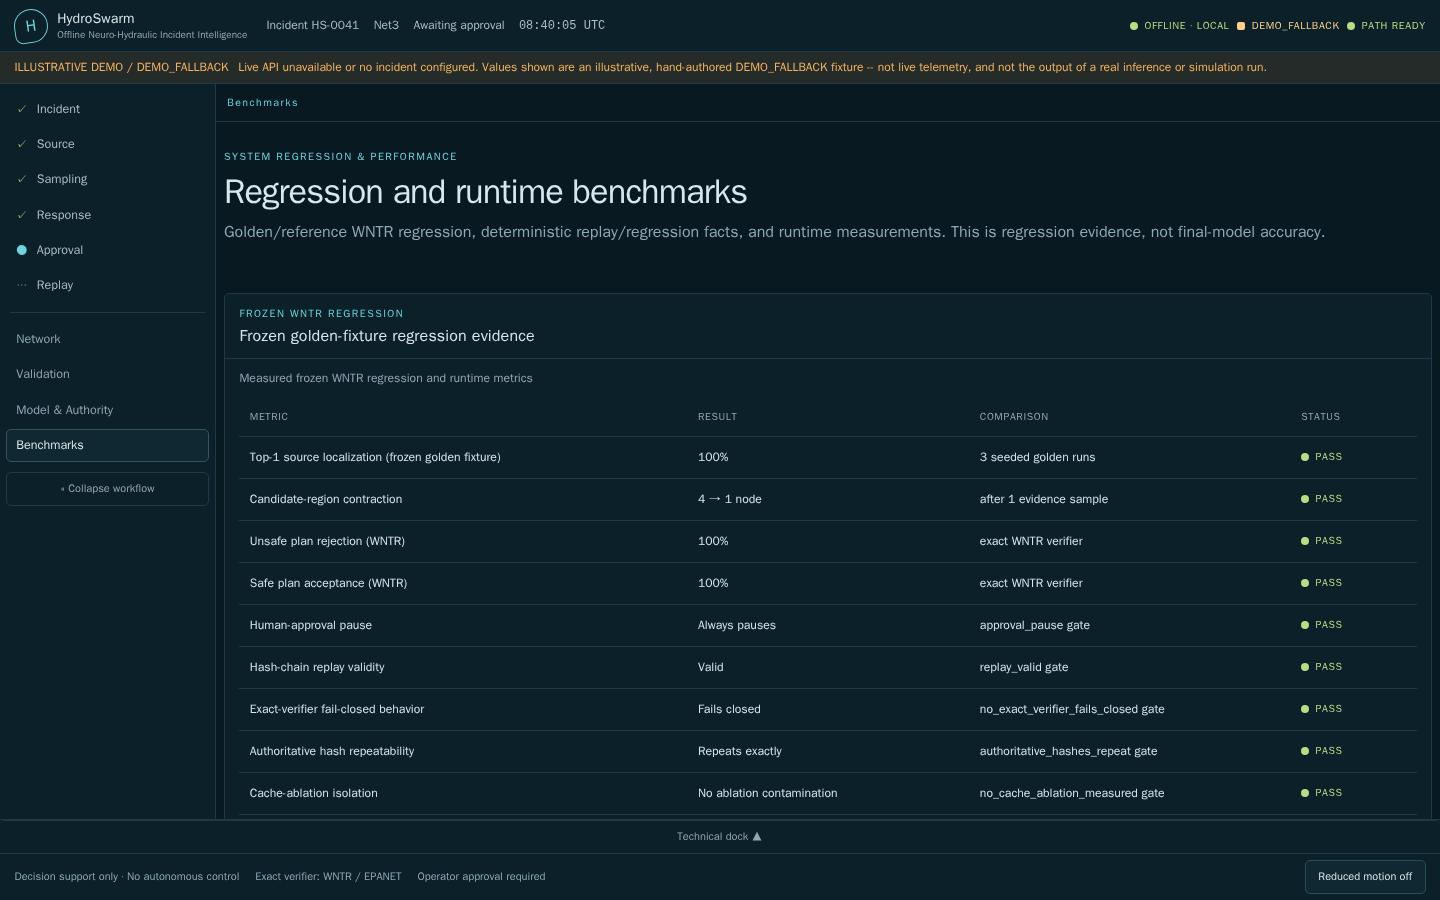
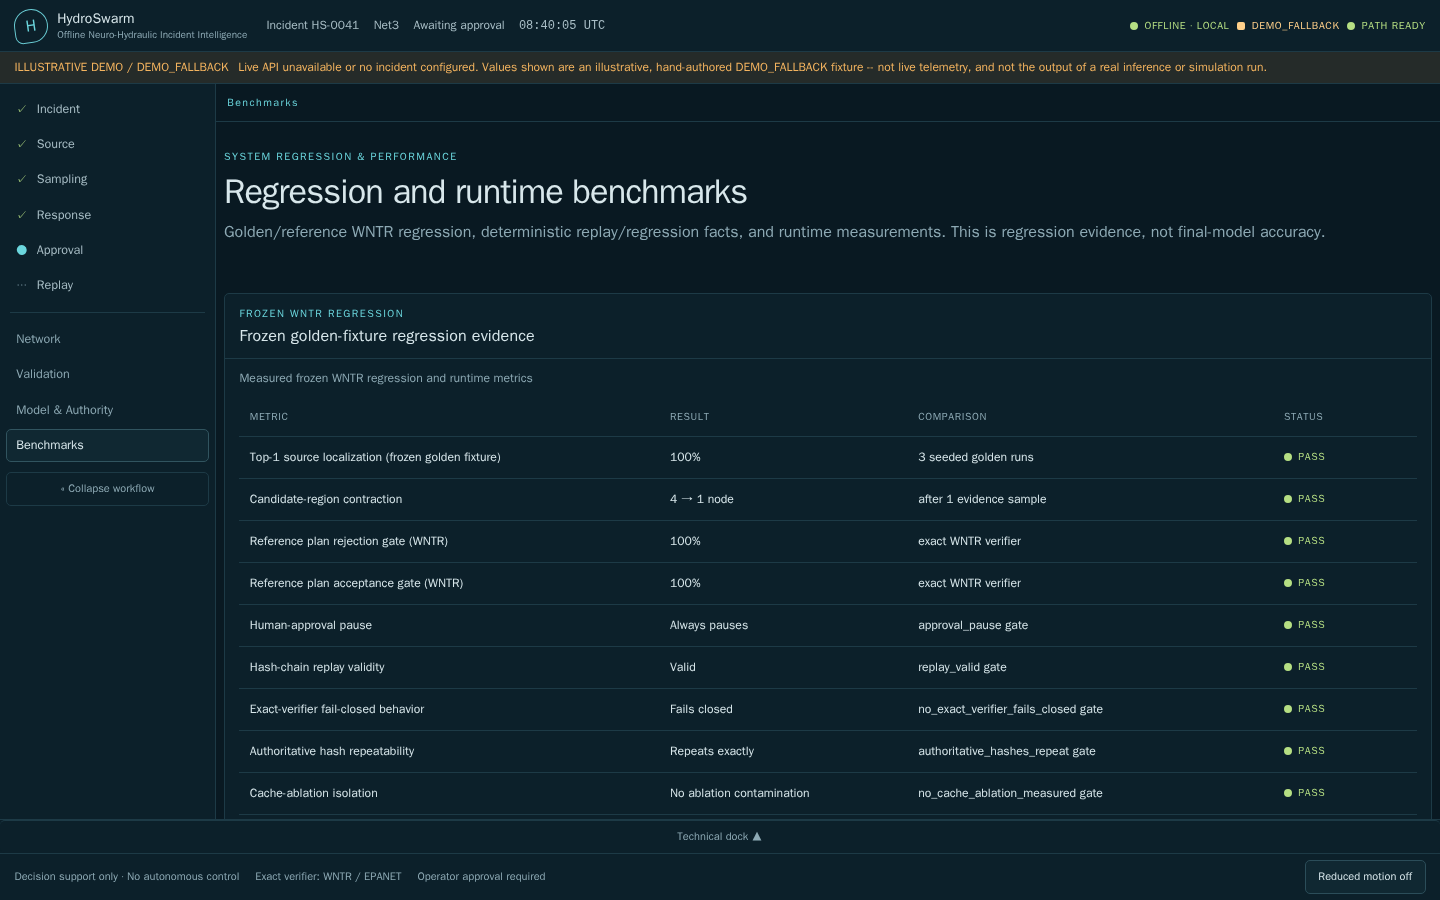
fix(ui): finalize source-mode and benchmark truthfulness
Add CLASSICAL_SAFE to the source-ranking label hierarchy (REFERENCE /
CLASSICAL_SAFE / fused) so a classical-only incident is never labeled
as fused, and rename the fused label from CALIBRATED FUSION to FUSED
SOURCE BELIEF since a fused belief can exist even when calibration
isn't authoritative. Centralized in sourceLabel.ts, used by both
SourceWorkspace and Overview.

Remove the two historical 4,040,645-param model-runtime rows from the
Benchmarks artifact (frozen V5 has 4,182,612 params), drop
performance.json from its provenance list, and narrow the WNTR gate
labels to "Reference plan rejection/acceptance gate (WNTR)".

Regenerate docs/screenshots/benchmarks.png and the two directly
affected Playwright visual baselines (benchmarks-1440x900, source
-1920x1080) for this (ARM64) architecture; the x64 baselines need a
regen on an x86_64 runner.

diff --git a/frontend/tests/FinalCorrectivePass.test.tsx b/frontend/tests/FinalCorrectivePass.test.tsx
@@ -11,6 +11,7 @@
  */
 import { render, screen } from '@testing-library/react';
 import { QueryClient, QueryClientProvider } from '@tanstack/react-query';
+import regressionEvidenceArtifact from '../public/system-regression-evidence.json';
 import { FirstLaunchGateway } from '../src/shell/FirstLaunchGateway';
 import { SourceWorkspace } from '../src/workspaces/SourceWorkspace';
 import { AuthorityWorkspace } from '../src/workspaces/AuthorityWorkspace';
@@ -31,7 +32,7 @@ function renderWithQuery(node: React.ReactElement) {
 describe('A. Source attribution', () => {
   test('LIVE/DEMO SourceWorkspace labels the final ranked candidates as fused, not raw Sentinel', async () => {
     renderWithQuery(<SourceWorkspace incident={demoIncident} />);
-    expect(await screen.findByText('CALIBRATED FUSION')).toBeVisible();
+    expect(await screen.findByText('FUSED SOURCE BELIEF')).toBeVisible();
     expect(screen.queryByText('HYDROCORE-v5 SENTINEL')).toBeNull();
     expect(
       screen.getByText('Classical hydraulic/signature evidence + HydroCore-v5 Sentinel evidence.'),
@@ -42,11 +43,52 @@ describe('A. Source attribution', () => {
     const referenceIncident: IncidentView = { ...demoIncident, mode: 'REFERENCE' };
     renderWithQuery(<SourceWorkspace incident={referenceIncident} />);
     expect(await screen.findByText('DETERMINISTIC REFERENCE LOCALIZATION')).toBeVisible();
-    expect(screen.queryByText('CALIBRATED FUSION')).toBeNull();
+    expect(screen.queryByText('FUSED SOURCE BELIEF')).toBeNull();
     // No fusion-composition sentence in REFERENCE mode -- it does not fuse anything live.
     expect(
       screen.queryByText(
         'Classical hydraulic/signature evidence + HydroCore-v5 Sentinel evidence.',
+      ),
+    ).toBeNull();
+  });
+
+  test('CLASSICAL_SAFE SourceWorkspace says deterministic classical localization, not fused', async () => {
+    const classicalSafeIncident: IncidentView = {
+      ...demoIncident,
+      mode: 'LIVE',
+      runtimeAnalysisMode: 'CLASSICAL_SAFE',
+    };
+    renderWithQuery(<SourceWorkspace incident={classicalSafeIncident} />);
+    expect(await screen.findByText('DETERMINISTIC CLASSICAL LOCALIZATION')).toBeVisible();
+    expect(screen.queryByText('FUSED SOURCE BELIEF')).toBeNull();
+    expect(screen.queryByText('CALIBRATED FUSION')).toBeNull();
+    // No fabricated learned contribution -- Sentinel evidence did not run.
+    expect(
+      screen.queryByText(
+        'Classical hydraulic/signature evidence + HydroCore-v5 Sentinel evidence.',
+      ),
+    ).toBeNull();
+    expect(
+      screen.getByText(
+        /Learned localization was unavailable for this incident; deterministic classical/,
+      ),
+    ).toBeVisible();
+  });
+
+  test('normal hybrid/fused SourceWorkspace path shows the classical + Sentinel composition sentence', async () => {
+    const hybridIncident: IncidentView = {
+      ...demoIncident,
+      mode: 'LIVE',
+      runtimeAnalysisMode: 'FULL_HYBRID',
+    };
+    renderWithQuery(<SourceWorkspace incident={hybridIncident} />);
+    expect(await screen.findByText('FUSED SOURCE BELIEF')).toBeVisible();
+    expect(
+      screen.getByText('Classical hydraulic/signature evidence + HydroCore-v5 Sentinel evidence.'),
+    ).toBeVisible();
+    expect(
+      screen.queryByText(
+        /Learned localization was unavailable for this incident; deterministic classical/,
       ),
     ).toBeNull();
   });
@@ -61,6 +103,17 @@ describe('A. Source attribution', () => {
     const referenceIncident: IncidentView = { ...demoIncident, mode: 'REFERENCE' };
     render(<Overview incident={referenceIncident} />);
     expect(await screen.findByText('DETERMINISTIC REFERENCE LOCALIZATION')).toBeVisible();
+    expect(screen.queryByText('FUSED SOURCE BELIEF')).toBeNull();
+  });
+
+  test('Overview Source card for CLASSICAL_SAFE incidents says deterministic classical localization, not fused', async () => {
+    const classicalSafeIncident: IncidentView = {
+      ...demoIncident,
+      mode: 'LIVE',
+      runtimeAnalysisMode: 'CLASSICAL_SAFE',
+    };
+    render(<Overview incident={classicalSafeIncident} />);
+    expect(await screen.findByText('DETERMINISTIC CLASSICAL LOCALIZATION')).toBeVisible();
     expect(screen.queryByText('FUSED SOURCE BELIEF')).toBeNull();
   });
 
@@ -108,6 +161,55 @@ describe('B. Benchmarks', () => {
     render(<BenchmarkPage />);
     expect(await screen.findByText('Regression evidence unavailable.')).toBeVisible();
     expect(screen.queryByRole('table')).toBeNull();
+  });
+});
+
+// ---------------------------------------------------------------------------
+// B2. Benchmark artifact truthfulness (real committed artifact)
+// ---------------------------------------------------------------------------
+describe('B2. Benchmark artifact truthfulness', () => {
+  const realDoc = regressionEvidenceArtifact;
+
+  test('does not include historical/pre-final model-runtime rows', () => {
+    const metricNames = realDoc.metrics.map((metric: { metric: string }) => metric.metric);
+    expect(metricNames).not.toContain('Small-variant model runtime (reference graph, 128 nodes)');
+    expect(metricNames).not.toContain('Small-variant model runtime (stress graph, 1000 nodes)');
+    const values = realDoc.metrics.map((metric: { value: string }) => metric.value);
+    expect(values).not.toContain('31.0 ms median / 32.3 ms p95');
+    expect(values).not.toContain('104.3 ms median / 135.0 ms p95');
+  });
+
+  test('provenance no longer lists reports/results/performance.json', () => {
+    const paths = realDoc.generatedFrom.map((entry: { path: string }) => entry.path);
+    expect(paths).not.toContain('reports/results/performance.json');
+  });
+
+  test('WNTR gate labels use narrower reference/gate wording, not broad safe/unsafe language', () => {
+    const metricNames = realDoc.metrics.map((metric: { metric: string }) => metric.metric);
+    expect(metricNames).not.toContain('Unsafe plan rejection (WNTR)');
+    expect(metricNames).not.toContain('Safe plan acceptance (WNTR)');
+    expect(metricNames).toContain('Reference plan rejection gate (WNTR)');
+    expect(metricNames).toContain('Reference plan acceptance gate (WNTR)');
+  });
+
+  test('deterministic regression evidence remains present', () => {
+    const metricNames = realDoc.metrics.map((metric: { metric: string }) => metric.metric);
+    expect(metricNames).toContain('Top-1 source localization (frozen golden fixture)');
+    expect(metricNames).toContain('Hash-chain replay validity');
+  });
+
+  test('BenchmarkPage rendering the real artifact shows no stale model-runtime rows and shows the new gate labels', async () => {
+    vi.stubGlobal('fetch', vi.fn().mockResolvedValue({ ok: true, json: async () => realDoc }));
+    render(<BenchmarkPage />);
+    expect(await screen.findByText('Reference plan rejection gate (WNTR)')).toBeVisible();
+    expect(screen.getByText('Reference plan acceptance gate (WNTR)')).toBeVisible();
+    expect(
+      screen.queryByText('Small-variant model runtime (reference graph, 128 nodes)'),
+    ).toBeNull();
+    expect(screen.queryByText('Small-variant model runtime (stress graph, 1000 nodes)')).toBeNull();
+    expect(screen.queryByText('31.0 ms median / 32.3 ms p95')).toBeNull();
+    expect(screen.queryByText('104.3 ms median / 135.0 ms p95')).toBeNull();
+    expect(screen.queryByText('reports/results/performance.json')).toBeNull();
   });
 });
 

diff --git a/frontend/src/workspaces/SourceWorkspace.tsx b/frontend/src/workspaces/SourceWorkspace.tsx
@@ -9,6 +9,7 @@ import { AuthorityBadge } from '../components/status/AuthorityBadge';
 import { ApplicabilityBadge } from '../components/status/ApplicabilityBadge';
 import { EmptyState } from '../components/common/EmptyState';
 import { KeyValueGrid } from '../components/common/KeyValueGrid';
+import { sourceRankingLabel, showsFusedComposition } from '../sourceLabel';
 
 const OperationalMap = lazy(() =>
   import('../components/OperationalMap').then((module) => ({ default: module.OperationalMap })),
@@ -63,14 +64,10 @@ export function SourceWorkspace({ incident }: { incident: IncidentView }) {
       </Panel>
       <Panel
         title="Ranked source candidates"
-        eyebrow={
-          incident.mode === 'REFERENCE'
-            ? 'DETERMINISTIC REFERENCE LOCALIZATION'
-            : 'CALIBRATED FUSION'
-        }
+        eyebrow={sourceRankingLabel(incident)}
         className="wide-panel"
       >
-        {incident.mode !== 'REFERENCE' && (
+        {showsFusedComposition(incident) && (
           <p className="supporting">
             Classical hydraulic/signature evidence + HydroCore-v5 Sentinel evidence.
           </p>

diff --git a/frontend/src/sourceLabel.ts b/frontend/src/sourceLabel.ts
@@ -1,0 +1,21 @@
+import type { IncidentView } from './types';
+
+/** ui-work.txt / hotfix: single place that decides the source-ranking
+ * eyebrow label so REFERENCE, CLASSICAL_SAFE and the normal hybrid/fused
+ * path can't drift apart across render sites (SourceWorkspace, Overview).
+ * CLASSICAL_SAFE must never be labeled as fused -- learned localization is
+ * explicitly unavailable for that incident. */
+export function sourceRankingLabel(incident: IncidentView): string {
+  if (incident.mode === 'REFERENCE') return 'DETERMINISTIC REFERENCE LOCALIZATION';
+  if (incident.runtimeAnalysisMode === 'CLASSICAL_SAFE') {
+    return 'DETERMINISTIC CLASSICAL LOCALIZATION';
+  }
+  return 'FUSED SOURCE BELIEF';
+}
+
+/** Whether the "classical + Sentinel" composition sentence is truthful for
+ * this incident -- only when learned Sentinel evidence actually
+ * contributes to the final ranking. */
+export function showsFusedComposition(incident: IncidentView): boolean {
+  return incident.mode !== 'REFERENCE' && incident.runtimeAnalysisMode !== 'CLASSICAL_SAFE';
+}

diff --git a/frontend/src/pages/Overview.tsx b/frontend/src/pages/Overview.tsx
@@ -13,6 +13,7 @@ import { EmptyState } from '../components/common/EmptyState';
 import { formatDisplayId } from '../displayId';
 import { useConsoleStore } from '../store';
 import { deriveWorkflowProgression } from '../workflow';
+import { sourceRankingLabel } from '../sourceLabel';
 
 const OperationalMap = lazy(() =>
   import('../components/OperationalMap').then((module) => ({ default: module.OperationalMap })),
@@ -128,14 +129,7 @@ export function Overview({ incident }: { incident: IncidentView }) {
       </Panel>
 
       <div className="incident-summary-row wide-panel">
-        <Panel
-          title="Source"
-          eyebrow={
-            incident.mode === 'REFERENCE'
-              ? 'DETERMINISTIC REFERENCE LOCALIZATION'
-              : 'FUSED SOURCE BELIEF'
-          }
-        >
+        <Panel title="Source" eyebrow={sourceRankingLabel(incident)}>
           {leading ? (
             <>
               <div className="candidate-hero">

diff --git a/frontend/tests/FinalUiQualityPass.test.tsx b/frontend/tests/FinalUiQualityPass.test.tsx
@@ -527,13 +527,13 @@ describe('H. Reference Source & Sampling truthfulness', () => {
 
   test('Reference Source label differs from the LIVE/DEMO fused-belief label', async () => {
     const first = renderWorkspace(<SourceWorkspace incident={demoIncident} />);
-    expect(await screen.findByText('CALIBRATED FUSION')).toBeVisible();
+    expect(await screen.findByText('FUSED SOURCE BELIEF')).toBeVisible();
     first.unmount();
 
     const referenceIncident: IncidentView = { ...demoIncident, mode: 'REFERENCE' };
     renderWorkspace(<SourceWorkspace incident={referenceIncident} />);
     expect(await screen.findByText('DETERMINISTIC REFERENCE LOCALIZATION')).toBeVisible();
-    expect(screen.queryByText('CALIBRATED FUSION')).toBeNull();
+    expect(screen.queryByText('FUSED SOURCE BELIEF')).toBeNull();
   });
 
   test('Reference Sampling uses incident.recommendedSample as the deterministic reference recommendation', async () => {

diff --git a/frontend/src/demoFixture.ts b/frontend/src/demoFixture.ts
@@ -424,7 +424,7 @@ export const demoIncident: IncidentView = {
       sequence: 2,
       timestamp: '08:14:05',
       type: 'SOURCE_LOCALIZED',
-      actor: 'CALIBRATED FUSION',
+      actor: 'SOURCE FUSION',
       detail: 'Candidate region contains 11 nodes.',
     },
     {
